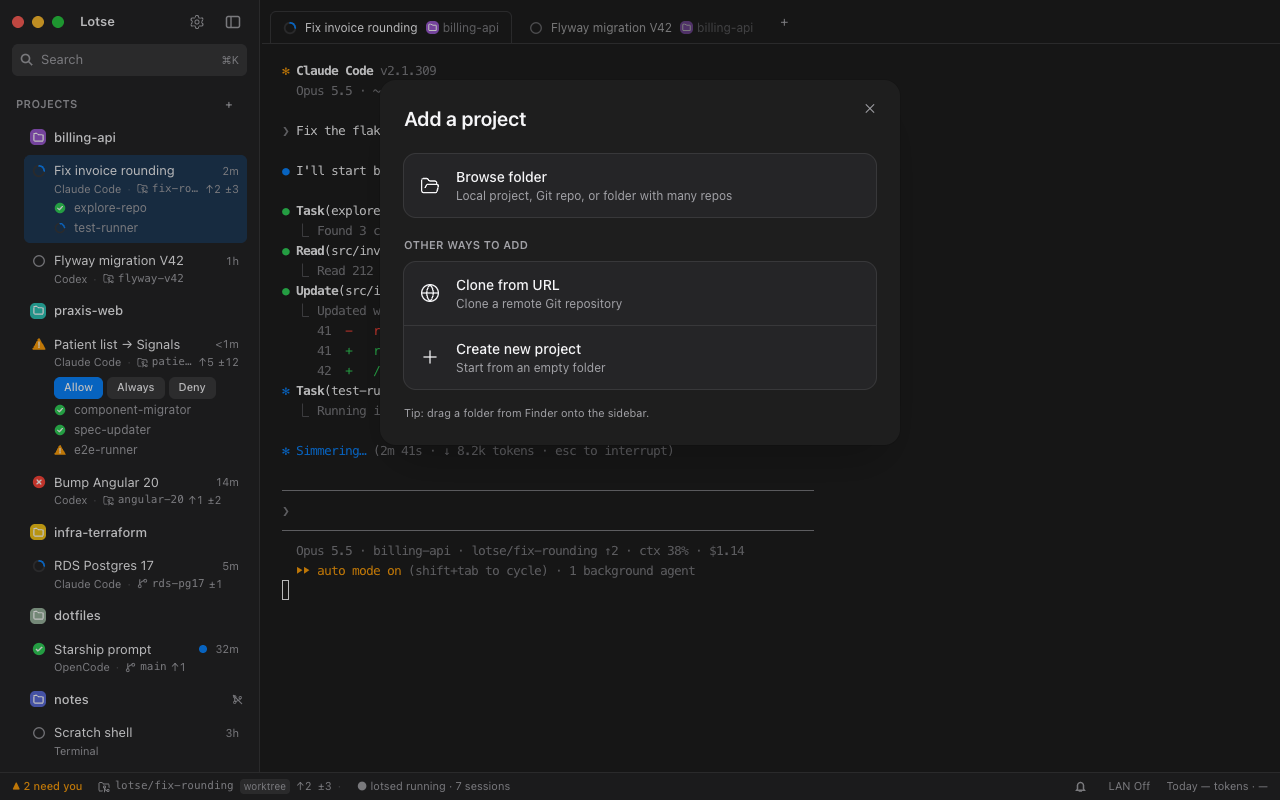
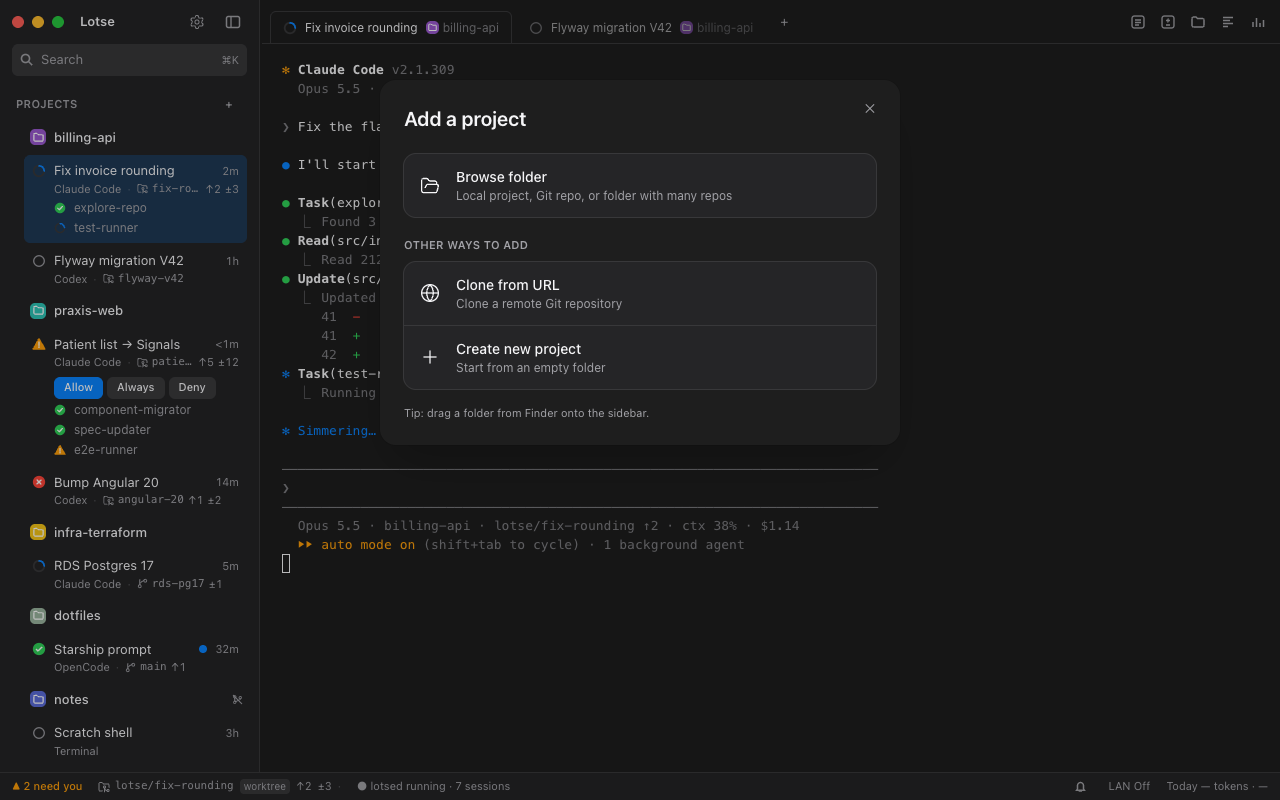
style(ui): mock tab-bar toolbar, heavier DOM-rendered terminal text, macOS sidebar vibrancy
Terminal defaults to xterm's DOM renderer (WebGL opt-in via
localStorage lotse-term-renderer=webgl): WebKit text weight and fractional
cell width match the mock. Window is transparent with the sidebar material.

diff --git a/app/src/parity-e2e/parity.spec.ts b/app/src/parity-e2e/parity.spec.ts
@@ -8,12 +8,14 @@ const HERE = fileURLToPath(new URL('.', import.meta.url));
 // Screenshots the mock and the app at the same window size, light and dark (the Playwright project
 // sets the OS scheme; the theme preference stays on Auto). Output: parity/polish/{mock,app}-<size>-<scheme>[-<surface>].png
 // The mock normally floats in a padded page; its wrapper is stretched to the viewport (same size as the app).
+// `1440@2x` is the main view on a Retina scale factor (xterm sizes cells in device pixels, so 1x and 2x differ).
 
 const MOCK = pathToFileURL(resolve(HERE, '../../../spec/mock.html')).href;
 const OUT = resolve(HERE, '../../../parity/polish');
 const SIZES = [
-  { w: 1440, h: 900 },
-  { w: 1280, h: 800 },
+  { w: 1440, h: 900, dpr: 1, tag: '1440', all: true },
+  { w: 1280, h: 800, dpr: 1, tag: '1280', all: true },
+  { w: 1440, h: 900, dpr: 2, tag: '1440@2x', all: false },
 ];
 
 /** The globals spec/mock.html defines (it is plain script, so they hang off `window`). */
@@ -45,30 +47,33 @@ const surfaces: Surface[] = [
   },
 ];
 
-for (const { w, h } of SIZES) {
-  for (const s of surfaces) {
-    test(`mock ${w}x${h} ${s.name}`, async ({ page }, info) => {
-      await page.setViewportSize({ width: w, height: h });
-      await page.goto(MOCK);
-      // Fill the viewport like the app's window, so the fixed overlays (palette, sheets) land at the same offsets.
-      await page.addStyleTag({
-        content: 'body{padding:0!important;background:none!important}#win{max-width:none!important;height:100vh!important;margin:0!important;border-radius:0!important;box-shadow:none!important}',
-      });
-      await page.waitForFunction(() => !!(window as unknown as MockWindow).lucide && document.querySelector('#tree .card'));
-      await page.evaluate(() => document.fonts.ready);
-      await s.mock(page);
-      await page.waitForTimeout(200);
-      await page.screenshot({ path: `${OUT}/mock-${w}-${info.project.name}${s.name === 'main' ? '' : '-' + s.name}.png`, animations: 'disabled' });
-    });
+for (const { w, h, dpr, tag, all } of SIZES) {
+  test.describe(tag, () => {
+    test.use({ viewport: { width: w, height: h }, deviceScaleFactor: dpr });
+    for (const s of surfaces.filter((x) => all || x.name === 'main')) {
+      const file = (who: string, scheme: string) => `${OUT}/${who}-${tag}-${scheme}${s.name === 'main' ? '' : '-' + s.name}.png`;
 
-    test(`app ${w}x${h} ${s.name}`, async ({ page }, info) => {
-      await page.setViewportSize({ width: w, height: h });
-      await page.goto('/');
-      await page.getByTestId('shell').waitFor();
-      await page.waitForTimeout(500);
-      await s.app(page);
-      await page.waitForTimeout(300);
-      await page.screenshot({ path: `${OUT}/app-${w}-${info.project.name}${s.name === 'main' ? '' : '-' + s.name}.png`, animations: 'disabled' });
-    });
-  }
+      test(`mock ${s.name}`, async ({ page }, info) => {
+        await page.goto(MOCK);
+        // Fill the viewport like the app's window, so the fixed overlays (palette, sheets) land at the same offsets.
+        await page.addStyleTag({
+          content: 'body{padding:0!important;background:none!important}#win{max-width:none!important;height:100vh!important;margin:0!important;border-radius:0!important;box-shadow:none!important}',
+        });
+        await page.waitForFunction(() => !!(window as unknown as MockWindow).lucide && document.querySelector('#tree .card'));
+        await page.evaluate(() => document.fonts.ready);
+        await s.mock(page);
+        await page.waitForTimeout(200);
+        await page.screenshot({ path: file('mock', info.project.name), animations: 'disabled' });
+      });
+
+      test(`app ${s.name}`, async ({ page }, info) => {
+        await page.goto('/');
+        await page.getByTestId('shell').waitFor();
+        await page.waitForTimeout(500);
+        await s.app(page);
+        await page.waitForTimeout(300);
+        await page.screenshot({ path: file('app', info.project.name), animations: 'disabled' });
+      });
+    }
+  });
 }

diff --git a/app/src/shell/Shell.tsx b/app/src/shell/Shell.tsx
@@ -43,6 +43,39 @@ function WindowControls() {
 const iconButton =
   'grid h-[26px] w-7 place-items-center rounded-md text-dim hover:bg-sel';
 
+// The mock's panel toolbar (right end of the tab row). The panels are Beta, so the buttons are inert until they
+// land: `aria-disabled` (not `disabled`, so the "Coming soon" tooltip still shows in WebKit), no hover, no click.
+const PANELS: { name: string; keys: string; paths: string; rect?: boolean }[] = [
+  { name: 'Session', keys: '⇧⌘I', paths: 'M5 6h6M5 8.5h6M5 11h4', rect: true },
+  { name: 'Changes', keys: '⇧⌘D', paths: 'M8 4.5v4M6 6.5h4M6 11h4', rect: true },
+  { name: 'Files', keys: '⇧⌘F', paths: 'M2 4.5a1.5 1.5 0 0 1 1.5-1.5H6l1.5 1.5h5A1.5 1.5 0 0 1 14 6v5.5a1.5 1.5 0 0 1-1.5 1.5h-9A1.5 1.5 0 0 1 2 11.5z' },
+  { name: 'Transcript', keys: '⇧⌘T', paths: 'M3 3.5h10M3 6.5h7M3 9.5h10M3 12.5h5' },
+  { name: 'Usage & time', keys: '⇧⌘U', paths: 'M3 13V8M6.5 13V4M10 13V9M13.5 13V6' },
+];
+
+function PanelToolbar() {
+  return (
+    <div className="mb-2 ml-auto flex shrink-0 items-center gap-0.5" role="toolbar" aria-label="Panels">
+      {PANELS.map((p) => (
+        <button
+          key={p.name}
+          type="button"
+          aria-disabled="true"
+          aria-label={p.name === 'Usage & time' ? 'Usage and time' : p.name}
+          title={`${p.name} ${p.keys} · Coming soon`}
+          className="grid h-[26px] w-7 place-items-center rounded-md text-dim"
+          onClick={(e) => e.preventDefault()}
+        >
+          <svg width="16" height="16" fill="none" stroke="currentColor" strokeWidth="1.4" aria-hidden="true">
+            {p.rect && <rect x="2" y="2" width="12" height="12" rx="2.5" />}
+            <path d={p.paths} />
+          </svg>
+        </button>
+      ))}
+    </div>
+  );
+}
+
 export function Shell() {
   const [width, setWidth] = useState(loadWidth);
   const [hidden, setHidden] = useState(false);
@@ -50,6 +83,13 @@ export function Shell() {
   const toggleSidebar = useCallback(() => setHidden((h) => !h), []);
 
   useEffect(() => onUiCommand('toggleSidebar', toggleSidebar), [toggleSidebar]);
+  // The Tauri window is transparent with the macOS sidebar material behind it (tauri.conf.json); polish.css lets it
+  // show through the sidebar and status bar. In a browser there is no material, so the solid mock colours stay.
+  useEffect(() => {
+    if (!inTauri()) return;
+    document.documentElement.dataset.vibrancy = '';
+    return () => document.documentElement.removeAttribute('data-vibrancy');
+  }, []);
   useEffect(() => {
     const onKey = (e: KeyboardEvent) => {
       if (e.metaKey && e.ctrlKey && e.code === 'KeyS') {
@@ -147,6 +187,7 @@ export function Shell() {
             <div data-slot="tabs" className="flex min-w-0 flex-1 items-end gap-1">
               <TabStrip />
             </div>
+            <PanelToolbar />
           </div>
           <div className="flex min-h-0 flex-1">
             <div data-slot="panes" className="relative flex min-w-0 flex-1">

diff --git a/app/src/parity-e2e/diff.spec.ts b/app/src/parity-e2e/diff.spec.ts
@@ -15,17 +15,23 @@ const REGIONS: Record<string, [number, number, number, number]> = {
   'side-head': [0, 0, 260, 90],
   'tab-row': [260, 0, 1000, 44],
   'status-bar': [0, 872, 700, 28],
+  terminal: [270, 55, 620, 520],
 };
 
-for (const w of [1440, 1280]) {
+const ALL = ['', '-settings', '-palette', '-new', '-add'];
+for (const { tag, cssWidth, surfaces } of [
+  { tag: '1440', cssWidth: 1440, surfaces: ALL },
+  { tag: '1280', cssWidth: 1280, surfaces: ALL },
+  { tag: '1440@2x', cssWidth: 1440, surfaces: [''] },
+]) {
   for (const scheme of ['light', 'dark']) {
-    for (const surface of ['', '-settings', '-palette', '-new', '-add']) {
-      const name = `${w}-${scheme}${surface}`;
+    for (const surface of surfaces) {
+      const name = `${tag}-${scheme}${surface}`;
       test(`diff ${name}`, async ({ page }) => {
         test.skip(!existsSync(`${DIR}/mock-${name}.png`) || !existsSync(`${DIR}/app-${name}.png`), 'no shots');
         await page.setContent('<canvas id="c"></canvas>');
         const res = await page.evaluate(
-          async ({ a, b, regions, out }) => {
+          async ({ a, b, regions: cssRegions, out, cssWidth }) => {
             const load = (src: string) =>
               new Promise<HTMLImageElement>((ok) => {
                 const i = new Image();
@@ -33,6 +39,8 @@ for (const w of [1440, 1280]) {
                 i.src = src;
               });
             const [ia, ib] = await Promise.all([load(a), load(b)]);
+            const scale = ia.width / cssWidth; // 2 for the Retina shots; the regions are in css px
+            const regions = Object.fromEntries(Object.entries(cssRegions).map(([k, r]) => [k, r.map((n) => n * scale)]));
             const W = Math.min(ia.width, ib.width);
             const H = Math.min(ia.height, ib.height);
             const c = document.getElementById('c') as HTMLCanvasElement;
@@ -68,7 +76,7 @@ for (const w of [1440, 1280]) {
             const stats = Object.fromEntries(Object.entries(regions).map(([k, [, , rw = 1, rh = 1]]) => [k, +(((bad[k] ?? 0) / (rw * rh)) * 100).toFixed(2)]));
             return { stats, url: out ? c.toDataURL('image/png') : '' };
           },
-          { a: png(`mock-${name}.png`), b: png(`app-${name}.png`), regions: REGIONS, out: true },
+          { a: png(`mock-${name}.png`), b: png(`app-${name}.png`), regions: REGIONS, out: true, cssWidth },
         );
         writeFileSync(`${DIR}/diff-${name}.png`, Buffer.from(res.url.split(',')[1] ?? '', 'base64'));
         console.log(name, JSON.stringify(res.stats));

diff --git a/app/src/parity-e2e/exp.spec.ts b/app/src/parity-e2e/exp.spec.ts
@@ -1,0 +1,20 @@
+import { expect, test } from '@playwright/test';
+
+// Vibrancy, simulated: in Tauri the shell sets `data-vibrancy` on <html> and the window is transparent over the macOS
+// sidebar material. Here a gradient on <html> stands in for the material; the sidebar and status bar must show it,
+// the main area must stay solid. Output: parity/polish/app-vibrancy-<scheme>.png
+
+test('vibrancy css lets the material through the sidebar only', async ({ page }, info) => {
+  await page.setViewportSize({ width: 1440, height: 900 });
+  await page.goto('/');
+  await page.getByTestId('shell').waitFor();
+  await page.evaluate(() => {
+    document.documentElement.dataset.vibrancy = '';
+    document.documentElement.style.background = 'linear-gradient(135deg, #ff5f6d, #4facfe)';
+  });
+  await page.waitForTimeout(300);
+  const alpha = (sel: string) => page.evaluate((s) => getComputedStyle(document.querySelector(s)!).backgroundColor, sel);
+  expect(await alpha('[data-testid="sidebar-region"]')).toMatch(/color\(srgb[^)]*\/ 0\.62\)|rgba\(.*0\.62\)/);
+  expect(await alpha('main')).not.toMatch(/\/|rgba/);
+  await page.screenshot({ path: `../parity/polish/app-vibrancy-${info.project.name}.png`, animations: 'disabled' });
+});

diff --git a/app/src/shell/Shell.test.tsx b/app/src/shell/Shell.test.tsx
@@ -36,6 +36,22 @@ describe('Shell', () => {
     expect(bars[1]?.querySelector('[data-slot="tabs"]')).not.toBeNull();
   });
 
+  it('shows the mock\'s five panel buttons, inert with a "Coming soon" tooltip until the Beta panels land', async () => {
+    mount();
+    const bar = screen.getByRole('toolbar', { name: 'Panels' });
+    const buttons = [...bar.querySelectorAll('button')];
+    expect(buttons.map((b) => b.getAttribute('aria-label'))).toEqual(['Session', 'Changes', 'Files', 'Transcript', 'Usage and time']);
+    for (const b of buttons) {
+      expect(b).toHaveAttribute('aria-disabled', 'true');
+      expect(b.title).toMatch(/Coming soon$/);
+    }
+    const commands = vi.fn();
+    const off = (['openSettings', 'openPalette', 'openNewSession', 'openAddProject', 'toggleSidebar'] as const).map((c) => onUiCommand(c, commands));
+    await userEvent.click(buttons[0]!);
+    expect(commands).not.toHaveBeenCalled();
+    off.forEach((f) => f());
+  });
+
   it('the settings and search buttons raise UI commands without knowing who listens', async () => {
     const settings = vi.fn();
     const palette = vi.fn();

diff --git a/app/src/terminal/font.ts b/app/src/terminal/font.ts
@@ -1,8 +1,11 @@
 export const DEFAULT_FONT_SIZE = 13;
 export const MIN_FONT_SIZE = 9;
 export const MAX_FONT_SIZE = 32;
-/** xterm multiplies the glyph height; 1.35 gives about the mock's 19.5 px row at 13 px (CSS `line-height: 1.5` is relative to the font size). */
-export const LINE_HEIGHT = 1.35;
+/** xterm multiplies the glyph height; 1.3 gives the mock's 19.5 px row at 13 px on a 2x display (CSS `line-height: 1.5` is relative to the font size). */
+export const LINE_HEIGHT = 1.3;
+/** 500 where the family has a Medium face (SF Mono, JetBrains Mono): WKWebView draws text lighter than Chrome. Menlo has none and stays Regular. */
+export const FONT_WEIGHT = '500';
+export const FONT_WEIGHT_BOLD = '700';
 
 /** Behind a user-chosen family. The mock's `.mono` stack starts with `ui-monospace`, which canvas fonts (WebGL renderer) do not resolve, so SF Mono and Menlo are named. */
 const FALLBACK = '"SF Mono", Menlo, Monaco, monospace';

diff --git a/app/src/terminal/TerminalView.tsx b/app/src/terminal/TerminalView.tsx
@@ -6,7 +6,7 @@ import { Terminal } from '@xterm/xterm';
 import '@xterm/xterm/css/xterm.css';
 import { useClient } from '../lib/client';
 import type { SessionId } from '../lib/client';
-import { DEFAULT_FONT_SIZE, LINE_HEIGHT, terminalFontFamily } from './font';
+import { DEFAULT_FONT_SIZE, FONT_WEIGHT, FONT_WEIGHT_BOLD, LINE_HEIGHT, terminalFontFamily } from './font';
 import { moveFocusOut } from './focus';
 import { isLinkClick, openExternal } from './links';
 import { wantsWebgl } from './renderer';
@@ -79,6 +79,8 @@ export function TerminalView({
         fontFamily: initialFont.current.fontFamily,
         fontSize: initialFont.current.fontSize,
         lineHeight: LINE_HEIGHT,
+        fontWeight: FONT_WEIGHT,
+        fontWeightBold: FONT_WEIGHT_BOLD,
         // OSC 8 hyperlinks: xterm's default handler uses confirm() + window.open(), a no-op in WKWebView.
         linkHandler: {
           activate: (e, uri) => {

diff --git a/app/src/terminal/renderer.ts b/app/src/terminal/renderer.ts
@@ -1,10 +1,15 @@
-/** `localStorage['lotse-term-renderer'] = 'dom'` forces xterm's DOM renderer: a workaround if a GPU driver mangles WebGL, and what e2e tests use to read terminal text. */
+/**
+ * `localStorage['lotse-term-renderer'] = 'webgl'` opts in to xterm's WebGL renderer. The default is the DOM renderer:
+ * it draws text with the browser's own text engine, so glyphs have the weight, smoothing and fractional cell width of the
+ * mock's `.term` (and of native macOS text in WKWebView). The WebGL glyph atlas is thinner and rounds the cell width down
+ * to whole device pixels. Use WebGL only for very heavy output.
+ */
 export const RENDERER_KEY = 'lotse-term-renderer';
 
 export function wantsWebgl(): boolean {
   try {
-    return localStorage.getItem(RENDERER_KEY) !== 'dom';
+    return localStorage.getItem(RENDERER_KEY) === 'webgl';
   } catch {
-    return true;
+    return false;
   }
 }

diff --git a/app/src/theme/polish.css b/app/src/theme/polish.css
@@ -103,6 +103,20 @@ button.bg-blue:active:not(:disabled) {
   backdrop-filter: saturate(180%) blur(24px);
 }
 
+/* Real vibrancy (Tauri only, `html[data-vibrancy]`): the window is transparent over NSVisualEffectView's sidebar
+   material. Only the sidebar and status bar stay see-through; everything else paints the mock's solid --win. */
+html[data-vibrancy],
+html[data-vibrancy] body,
+html[data-vibrancy] [data-testid='shell'] {
+  background: transparent;
+}
+html[data-vibrancy] main {
+  background: var(--win);
+}
+html[data-vibrancy] .lotse-glass {
+  background-color: color-mix(in srgb, var(--side) 62%, transparent);
+}
+
 /* Overlays arrive, they do not pop. Menus fade only: their position is measured on open. */
 @keyframes lotse-fade {
   from {

diff --git a/app/src/terminal/TerminalView.test.tsx b/app/src/terminal/TerminalView.test.tsx
@@ -113,6 +113,12 @@ describe('TerminalView', () => {
     await waitFor(() => expect(FakeTerminal.last.text).toContain('attach failed: no session nope'));
   });
 
+  it("starts with the mock's metrics: 13 px, Medium weight where the family has one, 1.3 line height", () => {
+    mount(<TerminalView sessionId="a1" />);
+    const o = FakeTerminal.last.options;
+    expect([o.fontSize, o.fontWeight, o.fontWeightBold, o.lineHeight]).toEqual([13, '500', '700', 1.3]);
+  });
+
   it('applies font settings to the live terminal', () => {
     const { rerender } = mount(<TerminalView sessionId="a1" fontSize={13} />);
     expect(FakeTerminal.last.options.fontSize).toBe(13);

diff --git a/app/src/terminal/font.test.ts b/app/src/terminal/font.test.ts
@@ -54,8 +54,8 @@ describe('links', () => {
 });
 
 describe('wantsWebgl', () => {
-  it('is on unless the user forced the DOM renderer', () => {
-    expect(wantsWebgl()).toBe(true);
+  it('is off (DOM renderer) unless the user opted in', () => {
+    expect(wantsWebgl()).toBe(false);
     localStorage.setItem(RENDERER_KEY, 'dom');
     expect(wantsWebgl()).toBe(false);
     localStorage.setItem(RENDERER_KEY, 'webgl');
